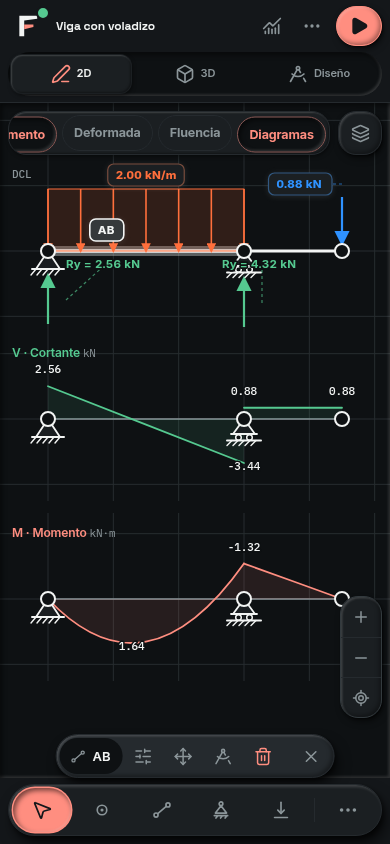
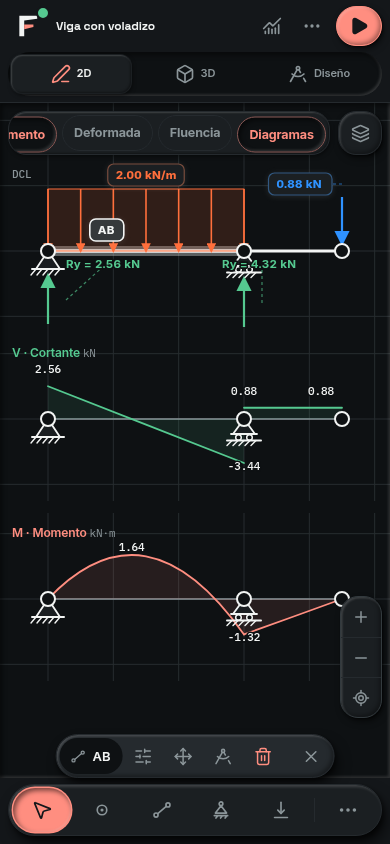
fix(canvas): unifica el momento entre las vistas individual y Diagramas

diff --git a/src/features/canvas/CanvasDiagramParity.test.tsx b/src/features/canvas/CanvasDiagramParity.test.tsx
@@ -1,0 +1,84 @@
+// @vitest-environment jsdom
+import { render } from '@testing-library/react';
+import { describe, expect, it } from 'vitest';
+import { createDefaultProject } from '../../data/defaultProject';
+import { analyzeProject } from '../../engine/solver';
+import type { DiagramQuantity } from '../../types';
+import { CanvasDiagramStack } from './CanvasDiagramStack';
+import { CanvasResultLayer } from './CanvasResultLayer';
+import { diagramSheetLayout } from './diagramSheetLayout';
+
+const quantities: DiagramQuantity[] = ['axial', 'shear', 'moment'];
+const size = { width: 800, height: 700 };
+const t = ((key: string) => key) as never;
+const points = (path: Element) => {
+  const result: {x:number;y:number}[] = [];
+  for (const match of path.getAttribute('d')!.matchAll(/([MLC])([^MLC]*)/g)) {
+    const values = match[2].match(/[-+]?(?:\d*\.)?\d+(?:e[-+]?\d+)?/gi)!.map(Number);
+    for (let i=0;i<values.length;i+=2) {
+      const point = {x:values[i],y:values[i+1]}; const previous = result.at(-1);
+      // A redundant L to the current endpoint does not change the drawn curve.
+      if(match[1]==='L' && previous && Math.hypot(point.x-previous.x,point.y-previous.y)<1e-8)continue;
+      result.push(point);
+    }
+  }
+  return result;
+};
+
+describe.each(['positive', 'negative'] as const)('misma convención %s en vista individual y Diagramas', side => {
+  it.each([0, 30, 90, 180])('conserva cada punto de N, V y M en una barra a %s°', angle => {
+    const project = createDefaultProject(); const radians = angle * Math.PI / 180;
+    project.nodes = [{id:'A',x:0,y:0,support:{type:'fixed'}},{id:'B',x:4*Math.cos(radians),y:4*Math.sin(radians),support:{type:'none'}}];
+    project.members = [{...project.members[0],id:'AB',i:'A',j:'B',rigidOffsetI:.2,rigidOffsetJ:.3}];
+    project.nodalLoads = [];
+    project.memberLoads = [
+      {id:'q',memberId:'AB',caseId:'LC1',type:'distributed',coordinateSystem:'local',lengthBasis:'real',start:0,end:1,qyStart:-10,qyEnd:-10},
+      {id:'P',memberId:'AB',caseId:'LC1',type:'point',coordinateSystem:'local',lengthBasis:'real',start:0,end:1,position:.6,px:8,py:-5},
+    ];
+    project.settings.diagramSide = side;
+    // Match pixel amplitude so equality checks every Bézier control and load jump,
+    // rather than merely checking whether one peak appears above or below the bar.
+    project.settings.diagramScale = 52 / 68;
+    const analysis = analyzeProject(project); expect(analysis.success).toBe(true);
+    const before = JSON.stringify(analysis);
+    const layout = diagramSheetLayout(project, size);
+    const camera = { x:100, y:400, scale:40 };
+    const rowCamera = { ...camera, y:camera.y-layout.replicaShift };
+    const nodeMap = new Map(project.nodes.map(n=>[n.id,n]));
+    const result = analysis.memberResults[0];
+    const stack = render(<CanvasDiagramStack project={project} results={analysis.memberResults} quantities={quantities} nodeMap={nodeMap} size={size} camera={camera} t={t}/>);
+    for (const quantity of quantities) {
+      const maximum = quantity==='axial'?Math.max(Math.abs(result.maxAxial),Math.abs(result.minAxial)):quantity==='shear'?Math.max(Math.abs(result.maxShear),Math.abs(result.minShear)):Math.max(Math.abs(result.maxMoment),Math.abs(result.minMoment));
+      const single = render(<svg><CanvasResultLayer slot="diagrams" project={project} analysis={analysis} resultTab={quantity} resultsAllowed resultCursor={null} influenceCanvasState={null} modeShapeState={null}
+        camera={rowCamera} toScreen={(x,y)=>({x:rowCamera.x+x*rowCamera.scale,y:rowCamera.y-y*rowCamera.scale})}
+        nodeMap={nodeMap} memberMap={new Map(project.members.map(m=>[m.id,m]))} resultMap={new Map([[result.memberId,result]])} nodeResultMap={new Map(analysis.nodeResults.map(n=>[n.nodeId,n]))}
+        mechanismMap={new Map()} mechanismPixelScale={1} globalDiagramMax={Math.max(1e-9,maximum)} units="kN-m" lengthLabel="m" forceLabel="kN" momentLabel="kN·m" showResults showDiagnostics={false} size={size} t={t}/></svg>);
+      const expected = points(single.container.querySelector('.diagram-line-exact')!);
+      const actual = points(stack.container.querySelector(`[data-stack-panel="${quantity}"] .diagram-stack-member-line`)!);
+      expect(actual).toHaveLength(expected.length);
+      actual.forEach((p,i)=>{expect(p.x, `${quantity}, punto ${i}, x`).toBeCloseTo(expected[i].x,8);expect(p.y, `${quantity}, punto ${i}, y`).toBeCloseTo(expected[i].y,8);});
+      single.unmount();
+    }
+    expect(JSON.stringify(analysis)).toBe(before); stack.unmount();
+  });
+});
+
+it('el caso de la captura conserva M positivo y negativo, así como las reacciones de referencia',()=>{
+  const p=createDefaultProject();p.nodes=[{id:'A',x:0,y:0,support:{type:'pin'}},{id:'B',x:9,y:0,support:{type:'none'}},{id:'C',x:18,y:0,support:{type:'fixed'}}];
+  p.members=[{...p.members[0],id:'AB',i:'A',j:'B'},{...p.members[1],id:'BC',i:'B',j:'C'}];p.nodalLoads=[];
+  p.memberLoads=[{id:'q',memberId:'AB',caseId:'LC1',type:'distributed',coordinateSystem:'global',lengthBasis:'real',start:0,end:1,qyStart:-10,qyEnd:-10}];
+  const a=analyzeProject(p);expect(a.success).toBe(true);expect(a.nodeResults.find(n=>n.nodeId==='A')!.ry).toBeCloseTo(57.65625,5);expect(a.nodeResults.find(n=>n.nodeId==='C')!.ry).toBeCloseTo(32.34375,5);
+  expect(a.memberResults[0].maxMoment).toBeCloseTo(166.212158203125,5);expect(a.memberResults[1].minMoment).toBeCloseTo(-177.1875,5);
+});
+
+it('los valores grandes de momento mantienen la precisión de centésimas de la vista individual',()=>{
+  const p=createDefaultProject();p.nodes=[{id:'A',x:0,y:0,support:{type:'pin'}},{id:'B',x:9,y:0,support:{type:'none'}},{id:'C',x:18,y:0,support:{type:'fixed'}}];
+  p.members=[{...p.members[0],id:'AB',i:'A',j:'B'},{...p.members[1],id:'BC',i:'B',j:'C'}];p.nodalLoads=[];
+  p.memberLoads=[{id:'q',memberId:'AB',caseId:'LC1',type:'distributed',coordinateSystem:'global',lengthBasis:'real',start:0,end:1,qyStart:-10,qyEnd:-10}];
+  const a=analyzeProject(p);
+  const {container}=render(<CanvasDiagramStack project={p} results={a.memberResults} quantities={['moment']} nodeMap={new Map(p.nodes.map(n=>[n.id,n]))} size={size} t={t}/>);
+  for(const r of a.memberResults){
+    const values=[...container.querySelectorAll(`[data-stack-member="${r.memberId}"] .diagram-stack-value`)].map(el=>Number(el.textContent));
+    for(const peak of [r.maxMoment,r.minMoment].filter(value=>Math.abs(value)>100)) expect(values.some(value=>Math.abs(value-peak)<=.005)).toBe(true);
+  }
+});

diff --git a/docs/brandbook/index.html b/docs/brandbook/index.html
@@ -243,5 +243,5 @@ body{background:#EDEFE9}
 <figure><img src="assets/proyectos-borradores-movil-noche.png" alt="Dos borradores seleccionados para guardar o eliminar, Noche" style="width:100%;border-radius:12px"><figcaption>Borradores y eliminación múltiple · Noche</figcaption></figure>
 </div>
 </section>
-<section class="panel"><h2>Modelo 2D · constantes y diagramas · 13 de octubre de 2026</h2><p>Rigidez con EI, E o I constante: base con o sin valor numérico, factor predeterminado y factor por barra (EI, 2EI, 3EI). Capas comparte fila con resultados. Diagramas dibuja el DCL completo con cargas y reacciones y repite toda la viga o todo el marco para N, V y M: misma escala, coordenadas horizontales y símbolos, con traslación vertical sin comprimir las copias. En vigas, V y M aparecen compactos cuando N es nulo; la cuadrícula continúa detrás de las réplicas y Localizar respeta el DCL.</p><p><a href="assets/rigidez-diagramas-dia.png">Día</a> · <a href="assets/rigidez-diagramas-noche.png">Noche</a> · <a href="assets/rigidez-diagramas-movil-dia.png">Móvil Día</a> · <a href="assets/rigidez-diagramas-movil-noche.png">Móvil Noche</a> · <a href="assets/rigidez-configuracion-dia.png">Configuración</a></p></section><section class="panel"><h2>Inspector · Ejercicios y Personalizado · 13 de octubre de 2026</h2><p>Las barras nuevas usan Ejercicios, sin atribuir un perfil físico a una rigidez relativa. Personalizado permite crear geometría directamente en el inspector, editar las medidas y elegir concreto, acero, madera, aluminio u otro material. f′c, Fy, Fu, E, G, ν, densidad, peso específico y dilatación térmica permanecen editables; las estimaciones de E/G se aplican mediante botones explícitos. Medidas y material se guardan con la barra y se pueden deshacer. El esquema 10 conserva los proyectos v8/v9.</p><p><a href="assets/perfil-personalizado-dia.png">Sección Día</a> · <a href="assets/perfil-personalizado-noche.png">Sección Noche</a> · <a href="assets/perfil-personalizado-movil-dia.png">Sección móvil</a> · <a href="assets/material-personalizado-dia.png">Material Día</a> · <a href="assets/material-personalizado-movil-noche.png">Material móvil Noche</a></p></section></body>
+<section class="panel"><h2>Modelo 2D · constantes y diagramas · 13 de octubre de 2026</h2><p>Rigidez con EI, E o I constante: base con o sin valor numérico, factor predeterminado y factor por barra (EI, 2EI, 3EI). Capas comparte fila con resultados. Diagramas dibuja el DCL completo con cargas y reacciones y repite toda la viga o todo el marco para N, V y M: misma escala, coordenadas horizontales y símbolos, con traslación vertical sin comprimir las copias. En vigas, V y M aparecen compactos cuando N es nulo; la cuadrícula continúa detrás de las réplicas y Localizar respeta el DCL.</p><p><a href="assets/rigidez-diagramas-dia.png">Día</a> · <a href="assets/rigidez-diagramas-noche.png">Noche</a> · <a href="assets/rigidez-diagramas-movil-dia.png">Móvil Día</a> · <a href="assets/rigidez-diagramas-movil-noche.png">Móvil Noche</a> · <a href="assets/rigidez-configuracion-dia.png">Configuración</a></p></section><section class="panel"><h2>Inspector · Ejercicios y Personalizado · 13 de octubre de 2026</h2><p>Las barras nuevas usan Ejercicios, sin atribuir un perfil físico a una rigidez relativa. Personalizado permite crear geometría directamente en el inspector, editar las medidas y elegir concreto, acero, madera, aluminio u otro material. f′c, Fy, Fu, E, G, ν, densidad, peso específico y dilatación térmica permanecen editables; las estimaciones de E/G se aplican mediante botones explícitos. Medidas y material se guardan con la barra y se pueden deshacer. El esquema 10 conserva los proyectos v8/v9.</p><p><a href="assets/perfil-personalizado-dia.png">Sección Día</a> · <a href="assets/perfil-personalizado-noche.png">Sección Noche</a> · <a href="assets/perfil-personalizado-movil-dia.png">Sección móvil</a> · <a href="assets/material-personalizado-dia.png">Material Día</a> · <a href="assets/material-personalizado-movil-noche.png">Material móvil Noche</a></p></section><section class="panel"><h2>Momento · misma orientación en ambas vistas · 13 de octubre de 2026</h2><p>Momento individual y Diagramas comparten la normal local y la convención ±y. La curva mantiene sus signos al abrir las filas alineadas, también en barras inclinadas o invertidas. Las etiquetas conservan centésimas y el valor del extremo derecho queda fuera del control de zoom.</p><p><a href="assets/momento-individual-movil-noche.png">Momento individual · móvil Noche</a> · <a href="assets/momento-diagramas-movil-noche.png">Diagramas · móvil Noche</a> · <a href="assets/momento-diagramas-movil-dia.png">Móvil Día</a> · <a href="assets/momento-diagramas-noche.png">Escritorio · convención −y</a></p></section></body>
 </html>

diff --git a/src/features/canvas/CanvasDiagramStack.tsx b/src/features/canvas/CanvasDiagramStack.tsx
@@ -50,7 +50,7 @@ export const CanvasDiagramStack = memo(({ project, results, quantities, nodeMap,
   return <section className="canvas-diagram-stack" data-canvas-layer="diagram-stack" aria-label={t('canvas.evidenceStackStructure')}>
     {visible.map((quantity) => {
       const maximum = maximumFor(quantity);
-      const direction = quantity === 'moment' ? (project.settings.diagramSide === 'negative' ? -1 : 1) : -1;
+      const direction = view.diagramSide === 'negative' ? -1 : 1;
       const geometryProps = { project, nodeMap: mutableNodes, memberMap, toScreen, camera,
         selectionVisualState: noSelection, candidatePreview: null, learningFocus: null, memberStartId: null,
         layers: replicaLayers, loadsLayerVisible: false, heatmapRatios: emptyRatios, demandMapActive: false,
@@ -71,8 +71,9 @@ export const CanvasDiagramStack = memo(({ project, results, quantities, nodeMap,
           const a = toScreen(i.x, i.y); const b = toScreen(j.x, j.y);
           const result = resultMap.get(member.id);
           const axis = memberAxis(member, i, j);
-          const dx = b.x - a.x; const dy = b.y - a.y; const length = Math.hypot(dx, dy) || 1;
-          const normal = { x: -dy / length, y: dx / length };
+          const dx = b.x - a.x; const dy = b.y - a.y;
+          // Same local +y as CanvasResultLayer; screen y grows downwards.
+          const normal = { x: axis.normal.x, y: -axis.normal.y };
           const point = (x: number, value = 0) => {
             const ratio = ((result?.startOffset ?? 0) + x) / axis.length;
             const offset = direction * value * amplitude / maximum;
@@ -102,7 +103,8 @@ export const CanvasDiagramStack = memo(({ project, results, quantities, nodeMap,
             {readings.map((reading) => {
               const p = point(reading.x, reading.value); const side = (Math.sign(reading.value) || 1) * direction;
               const display = toDisplay(reading.value, units, quantity === 'moment' ? 'moment' : 'force');
-              return <text key={`${reading.x}:${reading.value}`} className="diagram-stack-value" x={Math.max(32, Math.min(size.width - 32, p.x + normal.x * side * 10))} y={Math.max(38, Math.min(height - 14, p.y + normal.y * side * 10 - 3))} textAnchor="middle">{formatFixed(Math.abs(display) < 1e-8 ? 0 : display, Math.abs(display) >= 100 ? 1 : 2)}</text>;
+              const rightEnd = p.x > size.width - 72 && result && Math.abs(reading.x - result.length) < Math.max(1, result.length) * 1e-8;
+              return <text key={`${reading.x}:${reading.value}`} className="diagram-stack-value" x={Math.max(32, Math.min(size.width - 32, p.x + normal.x * side * 10 - (rightEnd ? 8 : 0)))} y={Math.max(38, Math.min(height - 14, p.y + normal.y * side * 10 - 3))} textAnchor={rightEnd ? 'end' : 'middle'}>{formatFixed(Math.abs(display) < 1e-8 ? 0 : display, 2)}</text>;
             })}
           </g>;
         })}

diff --git a/docs/brandbook/README.md b/docs/brandbook/README.md
@@ -39,3 +39,5 @@ El código manda: si `src/` y este documento discrepan, se corrige el documento.
 - Modelo 2D · rigidez y diagramas (13 de octubre de 2026): [Día](assets/rigidez-diagramas-dia.png), [Noche](assets/rigidez-diagramas-noche.png), [móvil Día](assets/rigidez-diagramas-movil-dia.png), [móvil Noche](assets/rigidez-diagramas-movil-noche.png) y [horizontal](assets/rigidez-diagramas-horizontal.png). EI/E/I constante con base numérica o relativa, factor predeterminado y por barra; [configuración Día](assets/rigidez-configuracion-dia.png) y [móvil](assets/rigidez-configuracion-movil-dia.png). Capas alineada con resultados y ACM (Diagramas) muestra toda la viga o todo el marco: misma escala y coordenadas horizontales que el DCL con cargas y reacciones, con traslación vertical entre filas. En vigas se abren V y M compactos cuando N es nulo; cada fila tiene cuadrícula y Localizar o una hoja móvil no cortan el DCL. [Momento del marco Día](assets/rigidez-marco-momento-dia.png) · [Noche](assets/rigidez-marco-momento-noche.png). Verificados teclado/Escape, cambio de miembro, ausencia de superposición y reapertura de una barra 3EI con EI base = 20000 kN·m².
 
 - Inspector · perfiles personalizados (13 de octubre de 2026): [sección Día](assets/perfil-personalizado-dia.png), [Noche](assets/perfil-personalizado-noche.png), [móvil Día](assets/perfil-personalizado-movil-dia.png) y [móvil Noche](assets/perfil-personalizado-movil-noche.png). [Material Día](assets/material-personalizado-dia.png), [Noche](assets/material-personalizado-noche.png), [móvil Día](assets/material-personalizado-movil-dia.png) y [móvil Noche](assets/material-personalizado-movil-noche.png). Perfil Ejercicios predeterminado en barras nuevas; Personalizado reúne geometría de siete familias, propiedades A/I, nombre, biblioteca y material con f′c/Fy/Fu, E/G, ν, ρ/γ y α editables. Rigidez accesible en Aula y selección múltiple. Esquema 10, compatible con guardados v8/v9; se verificó edición, deshacer, valores numéricos de referencia y reapertura real en IndexedDB.
+
+- Momento individual y Diagramas · orientación unificada (13 de octubre de 2026): comparación [individual móvil Noche](assets/momento-individual-movil-noche.png) / [Diagramas móvil Noche](assets/momento-diagramas-movil-noche.png), [Día](assets/momento-diagramas-movil-dia.png) y [escritorio](assets/momento-diagramas-dia.png). N/V/M usan la misma normal local y convención ±y en ambas vistas; momentos grandes conservan centésimas y la etiqueta del extremo derecho se coloca antes del control de zoom. Se compararon todos los controles Bézier y saltos de cargas, barras horizontales/inclinadas/verticales/invertidas, offsets rígidos y ambas convenciones. Caso de referencia: dos tramos de 9 m, q = 10 kN/m sólo en el primero, apoyo articulado y empotramiento.

diff --git a/TODO.md b/TODO.md
@@ -4,6 +4,8 @@ Lista corta y viva. Se tacha o se borra al terminar; el detalle va en el commit.
 
 ## Producto
 
+- [x] Momento individual y Diagramas: misma normal local y convención de signos, centésimas en valores grandes y extremo derecho legible junto al zoom.
+
 - [x] Modelo 2D: EI/E/I constante, valor o referencia relativa, predeterminados y factor por barra; edición en Aula/Completo y en selección múltiple.
 - [x] Inspector: Ejercicios como perfil sin forma física predeterminado; Personalizado con medidas de siete familias y material editable (f′c, Fy, Fu, E, G, ν, ρ, γ y α), biblioteca y guardado en el proyecto.
 - [x] ACM/Diagramas: DCL completo y V/M compactos en vigas, axial opcional, cuadrícula en cada fila, marcos completos y encuadre que resiste Localizar y las hojas móviles.
